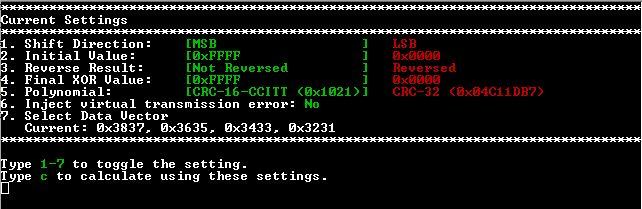
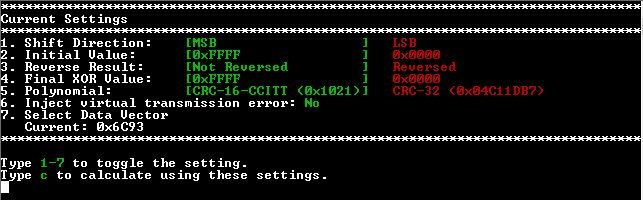
All changes from the Jira ticket

Changed region(s): [[0.0, 0.0, 1.0, 1.0], [0.0, 0.75, 0.4984, 0.99]]

diff --git a/dspic33ck-curiosity-crc-advanced.X/hardware_crc.c b/dspic33ck-curiosity-crc-advanced.X/hardware_crc.c
@@ -33,19 +33,26 @@ static void initialize32Bits(void)
     CRCCONHbits.PLEN = polynomialWidth32Bits - (uint16_t)1;
 }
 
-static void setInitialValue(bool isCRC32Active)
+static void setInitialValue(bool isCRC32Active, bool isInitialZero)
 {
     uint16_t indirect16BitData = 0x84CFu;
     uint32_t indirect32BitData = 0x46AF6449u;
-
-    if(isCRC32Active)
-    {
-        CRCWDATH = (uint16_t)(indirect32BitData >> 16);
-        CRCWDATL = (uint16_t)indirect32BitData;
+    
+    if (isInitialZero) {
+        CRCWDATH = 0;
+        CRCWDATL = 0;
     }
-    else
+    else 
     {
-        CRCWDATL = indirect16BitData;
+        if(isCRC32Active)
+        {
+            CRCWDATH = (uint16_t)(indirect32BitData >> 16);
+            CRCWDATL = (uint16_t)indirect32BitData;
+        }
+        else
+        {
+            CRCWDATL = indirect16BitData;
+        }
     }
 }
 
@@ -60,10 +67,7 @@ void configureHardwareCRC(CRC_SETTINGS settings)
     
     CRCCONLbits.LENDIAN = settings.isLsb ? 1 : 0;
 
-    if(!settings.isInitialZero)
-    {
-        setInitialValue(settings.isCRC32Bit);
-    }
+    setInitialValue(settings.isCRC32Bit, settings.isInitialZero);
 }
 
 uint32_t calculateHardwareCRC(CRC_SETTINGS settings, uint8_t inputData[], uint8_t inputDataSize)

diff --git a/dspic33ck-curiosity-crc-advanced.X/main.c b/dspic33ck-curiosity-crc-advanced.X/main.c
@@ -41,7 +41,7 @@ CRC_SETTINGS crcSettings = {
     .isInitialZero = false, 
     .isLsb = false, 
     .isReversed = false,
-    .currentData = 1
+    .currentData = 0
 };
 
 DEMO_SETTINGS demoSettings = {
@@ -78,13 +78,13 @@ int main(void)
     SYSTEM_Initialize();
     UartSerial->RxCompleteCallbackRegister(&UART_ProcessCommand_Callback);
     
-    uint8_t data0[4] = {0x68, 0x69, 0x21, 0x20};
+    uint8_t data0[4] = {0x6c, 0x93};
     uint8_t data1[8] = {0x38, 0x37, 0x36, 0x35, 0x34, 0x33, 0x32, 0x31};
     uint8_t data2[16] = {0x2F, 0x2F, 0x20, 0x48, 0x65, 0x6C, 0x6C, 0x6F, 
                      0x20, 0x77, 0x6F, 0x72, 0x6C, 0x64, 0x21, 0x20};
     uint8_t data3[4] = {0x00, 0x00, 0x00, 0x00};
 
-    uint8_t dataSize[4] = {4, 8, 16, 4};
+    uint8_t dataSize[4] = {2, 8, 16, 4};
     uint8_t* data[4] = {data0, data1, data2, data3};
     
     uint32_t hardwareCRCTimerCount = 0;

diff --git a/dspic33ck-curiosity-crc-advanced.X/mcc_generated_files/crc/src/crc.c b/dspic33ck-curiosity-crc-advanced.X/mcc_generated_files/crc/src/crc.c
@@ -108,7 +108,7 @@ void CRC_Initialize(void)
     CRCXORH = 0x0;
     
     // some seed
-    CRCWDATL = 0x0;
+    CRCWDATL = 0x84CF;
     CRCWDATH = 0x0;
 
     // set module state

diff --git a/README.md b/README.md
@@ -79,7 +79,7 @@ The code example uses the [MPLAB® Code Configurator Melody CRC Driver](https://
 
 The MPLAB® XC16 compiler provides users with compiler optimization options. These options allow the user to speed up their code. This CRC Advanced Demo is functional at all optimization levels. 
 
-The optimization settings can be found in the project properties. Go to Project Properties -> XC16 -> Optimization Level to change optimization level for the project. The table below shows the optimization results for hardware and software CRC calculations with the default settings. 
+The optimization settings can be found in the project properties. Go to Project Properties -> XC16 -> Optimization Level to change optimization level for the project. The table below shows the optimization results for hardware and software CRC calculations with the default settings and data1. 
 
 | Optimization Level | Hardware CRC (Default Settings) | Software CRC (Default Settings) |
 |---|---|---|
@@ -95,7 +95,7 @@ The optimization settings can be found in the project properties. Go to Project 
 
 ## CRC Settings
 
-The CRC calculations performed in this code example have different settings that can be toggled at runtime.
+The CRC calculations performed in this code example have different settings that can be toggled at runtime. **Note:** Settings toggled at runtime will NOT be reflected in the MCC Melody CRC driver "Easy View."
 
 - Shift direction: The direction the data is shifted through the registers. Can start with the most significant bit (MSB) or the least significant bit (LSB)
 - Initial Value: The initial value of the CRC result. Can theoretically be anything, but traditionally is either zero (0x0000 for 16-bit or 0x00000000 for 32-bit) or -1 (0xFFFF for 16-bit or 0xFFFFFFFF for 32-bit).
@@ -148,15 +148,15 @@ Upon building, a menu will be printed in the terminal program displaying the set
 | 4 | Final XOR Value | Final XOR Value | -1 (0xFFFF/0xFFFFFFFF) | 0 (0x0000/0x00000000) |
 | 5 | Polynomial | Polynomial | CRC-16-CCITT (0x1021) | CRC-32 (0x04C11DB7) |
 | 6 | Inject virtual transmission error **\*** | N/A | No | Yes |
-| 7 | Select Data Vector | Data | Data Submenu | N/A |
+| 7 | Select Data Sequence | Data | Data Submenu | N/A |
 
 **\*** Inject virtual transmission error - allows the user to force an error in the virtual transmission. It XOR's the first byte by 0x10. This demonstrates the CRC's error detection capabilities.
 
-If "7" is selected, the data submenu will be printed. Here, the user can select the data vector to be used in the calculations.
+If "7" is selected, the data submenu will be printed. Here, the user can select the data sequence to be used in the calculations.
 
 ![CRC Advanced Demo Data Sub-menu](images/advanced_data_submenu.JPG)
 
-Once the required settings are configured, enter "c" to begin the hardware calculation. The data vector will be reprinted, along with the result of the hardware CRC calculation.
+Once the required settings are configured, enter "c" to begin the hardware calculation. The data sequence will be reprinted, along with the result of the hardware CRC calculation.
 
 ![Hardware CRC Result](images/advanced_hardware_crc_output.JPG)
 
@@ -164,7 +164,7 @@ The menu will also be reprinted, allowing users to change settings to see how th
 
 **NOTE: If any settings are toggled after calculating, ensure to enter 'c' to recalculate with the new settings.**
 
-Enter "t" to progress to the virtual transmission and software CRC calculation. The data vector will be reprinted, showing what is being sent by the virtual transmitter. This is the data appended by the hardware CRC value. The data vector will be reprinted after the virtual transmission, and will have the error caused by the virtual transmission, if enabled. This data vector is what the virtual receiver receives. A software CRC calculation is then performed, and its results are printed.
+Enter "t" to progress to the virtual transmission and software CRC calculation. The data sequence will be reprinted, showing what is being sent by the virtual transmitter. This is the data appended by the hardware CRC value. The data sequence will be reprinted after the virtual transmission, and will have the error caused by the virtual transmission, if enabled. This data sequence is what the virtual receiver receives. A software CRC calculation is then performed, and its results are printed.
 
 ![Transmission and Software CRC Result](images/advanced_software_crc_result.JPG)
 
